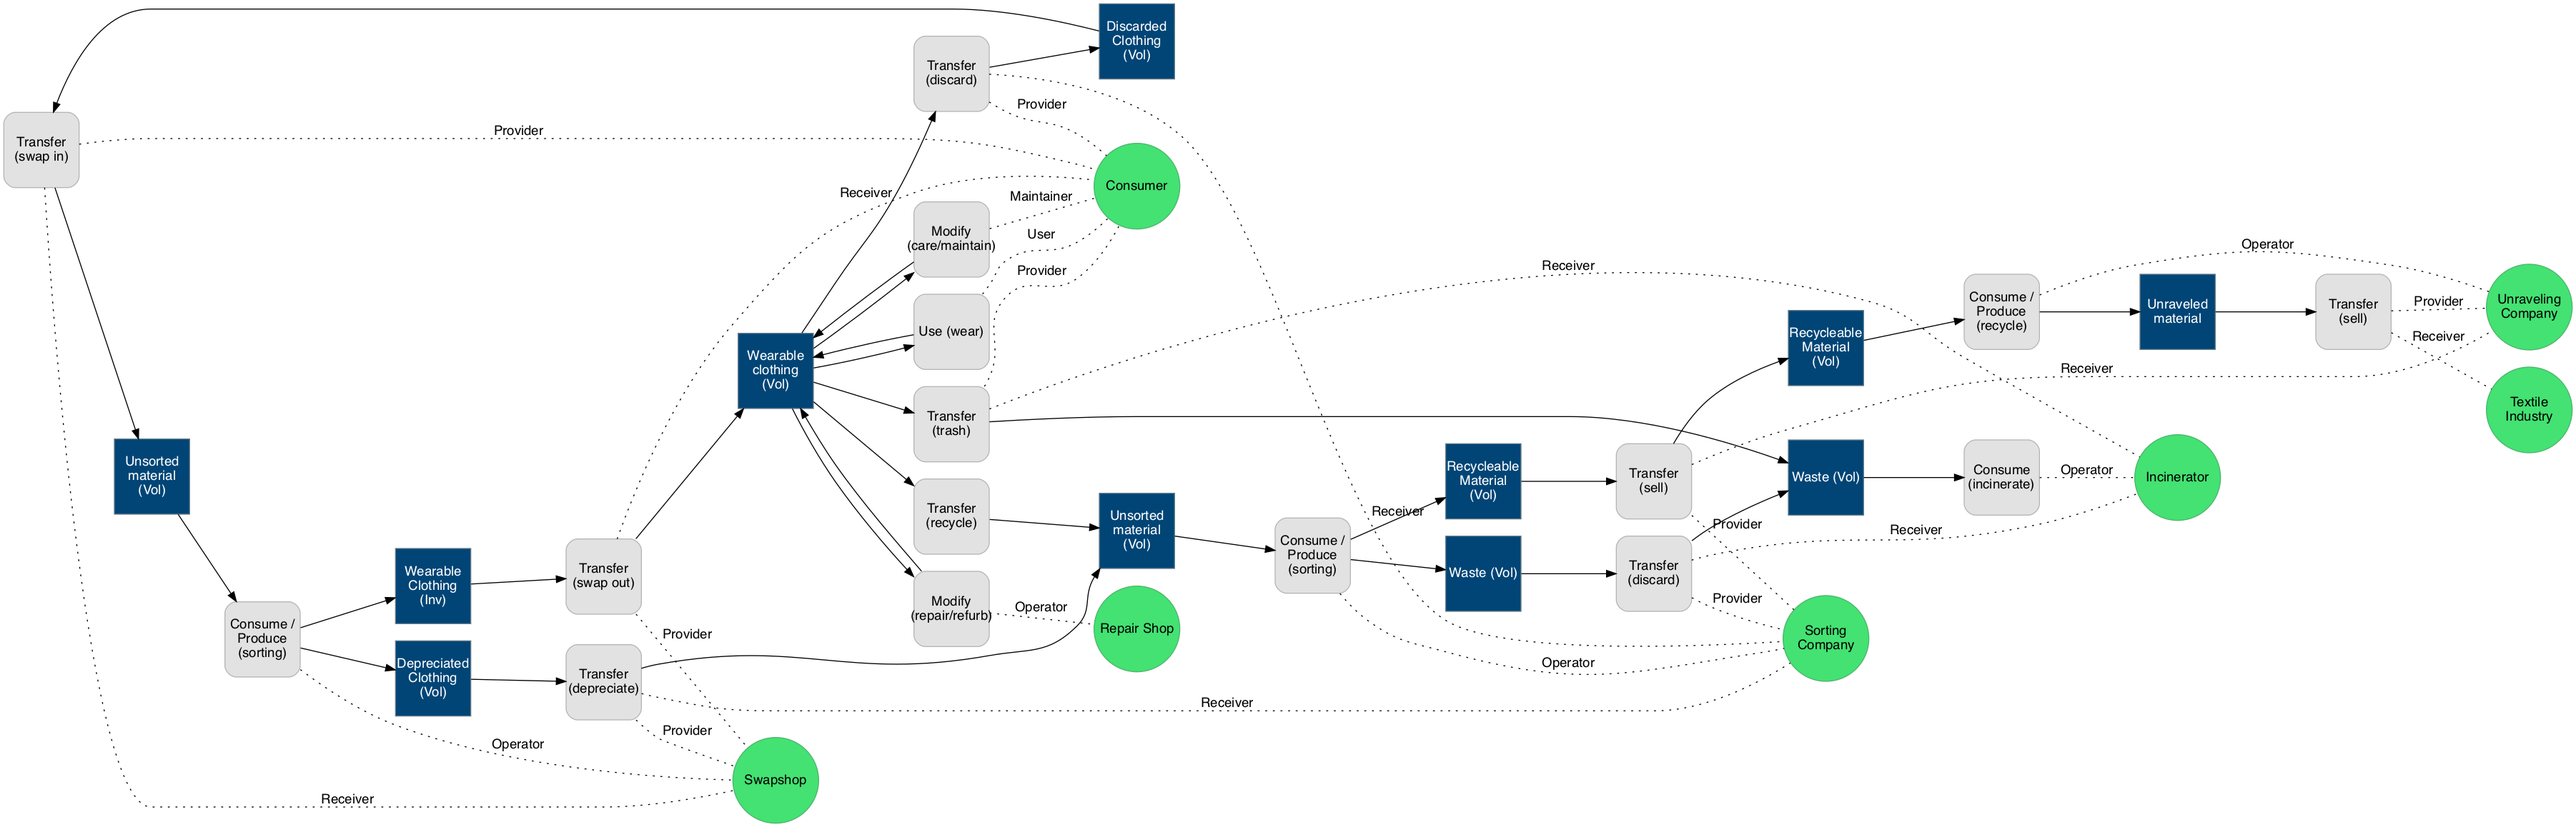
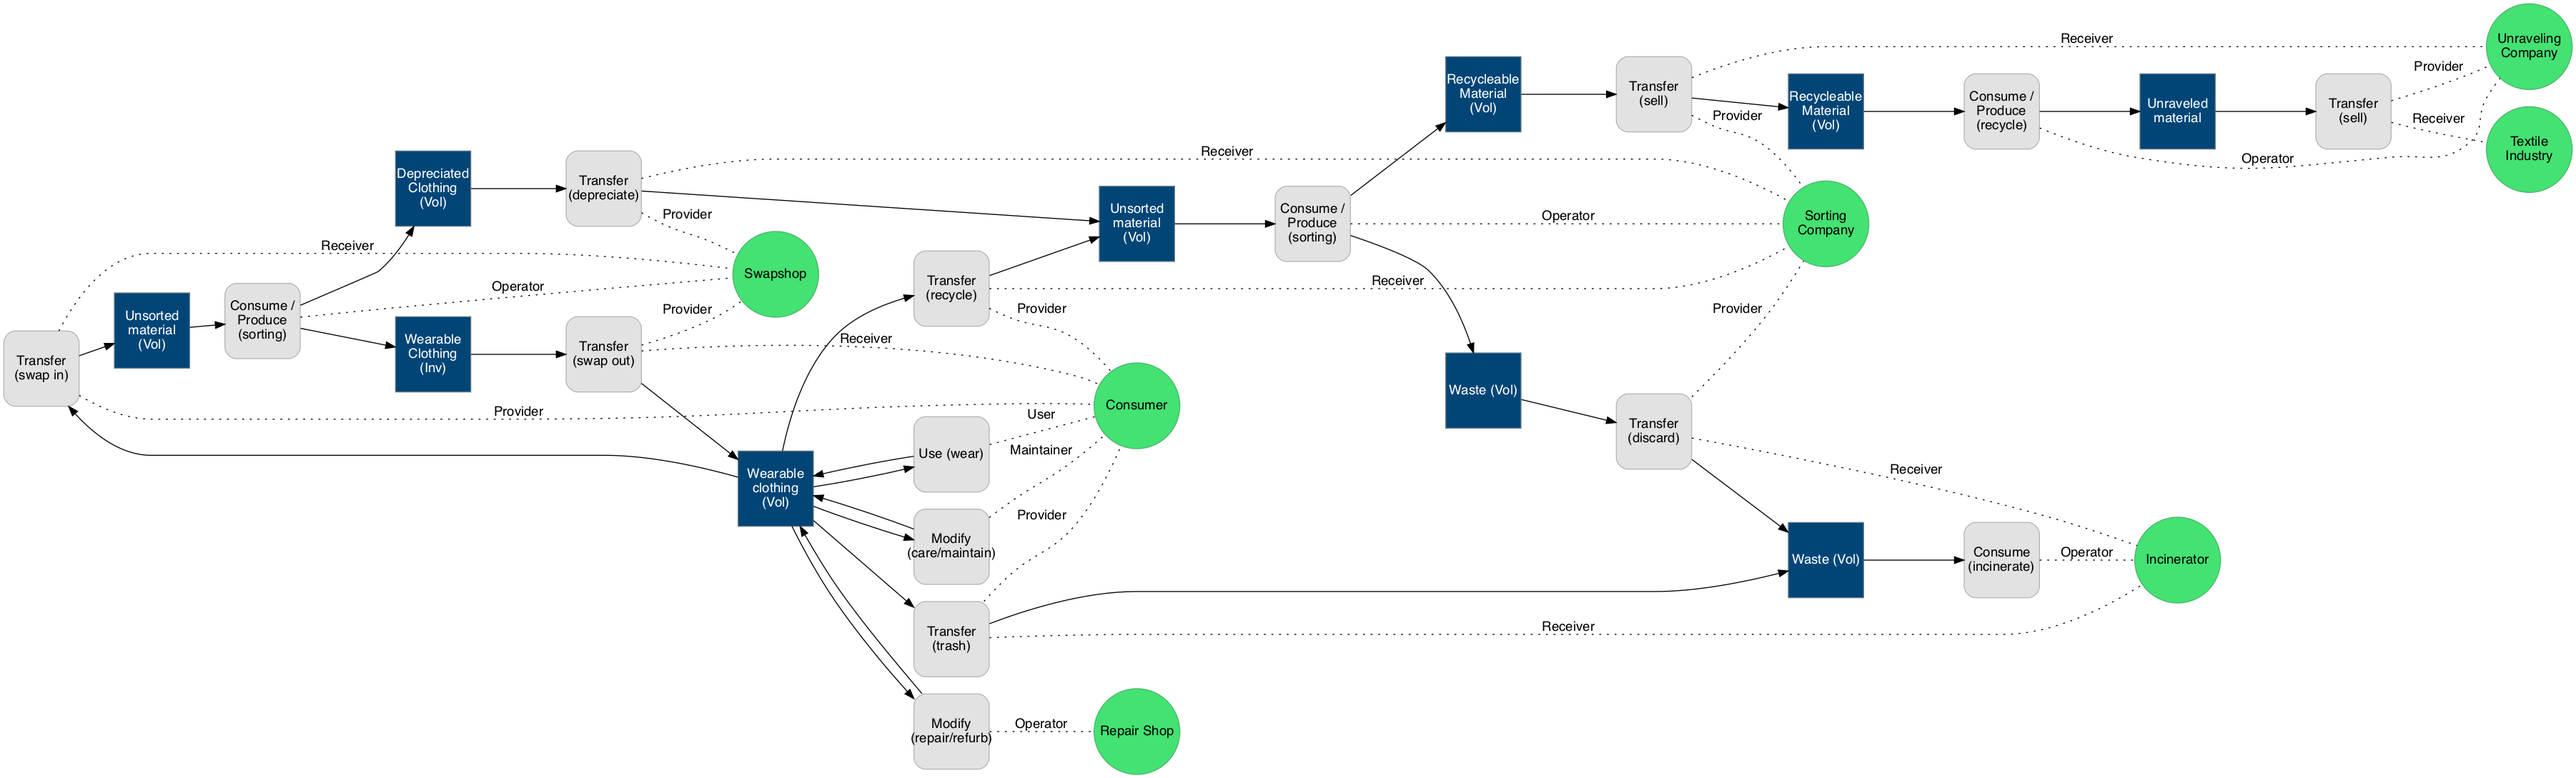
removed unnecessary step

diff --git a/graphviz/swapshop.rb b/graphviz/swapshop.rb
@@ -8,7 +8,6 @@ graph("Swapshop"){
   agent :a_ti, "Textile Industry"
   agent :a_repairshop, "Repair Shop"
 
-  resource :r_discarded, "Discarded Clothing (Vol)"
   resource :r_wearable1, "Wearable Clothing (Inv)" 
   resource :r_unwearable, "Depreciated Clothing (Vol)"
   resource :r_unsorted_swapshop, "Unsorted material (Vol)"
@@ -25,8 +24,15 @@ graph("Swapshop"){
   event :e_sort_swapshop, "Consume / Produce (sorting)"
   role :e_swap_in, :a_swapshop, "Receiver"
   role :e_swap_in, :a_consumer, "Provider"
-  
-  flow [:r_discarded, :e_swap_in, :r_unsorted_swapshop, :e_sort_swapshop] 
+  flow [:r_wearable2, :e_swap_in, :r_unsorted_swapshop, :e_sort_swapshop] 
+ 
+  # the citizen brings in items to swap  
+  # event :e_cons_discard, "Transfer (discard)"
+  # role :e_cons_discard, :a_consumer, "Provider"
+  # role :e_cons_discard, :a_swapshop, "Receiver"
+  # flow [:r_wearable2, :e_cons_discard, :r_discarded]
+
+ 
   # swapshop sorts incoming stuff
   role :e_sort_swapshop, :a_swapshop, "Operator"
  
@@ -59,13 +65,9 @@ graph("Swapshop"){
 
   # the citizen discards to recycle bin
   event :e_cons_recycle, "Transfer (recycle)"
-  role :e_cons_discard, :a_consumer, "Provider"
-  role :e_cons_discard, :a_sorter, "Receiver"
+  role :e_cons_recycle, :a_consumer, "Provider"
+  role :e_cons_recycle, :a_sorter, "Receiver"
   flow [:r_wearable2, :e_cons_recycle, :r_unsorted_sorter] 
-
-  # the citizen brings in items to swap show (back to r_discarded) 
-  event :e_cons_discard, "Transfer (discard)"
-  flow [:r_wearable2, :e_cons_discard, :r_discarded]
 
   # swapshop sends unwearable stuff to sorting company
   event :e_depreciate, "Transfer (depreciate)"
